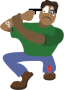
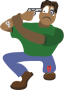
final art assets, non-rotating shoot-self sprite at adam's request

Changed region(s): [[0.4062, 0.0889, 0.6875, 0.1778]]

diff --git a/molyjam/molyjam/Game1.cs b/molyjam/molyjam/Game1.cs
@@ -42,6 +42,7 @@ namespace molyjam
         Texture2D player_tex;
         Texture2D player_shot_once;
         Texture2D player_shot_twice;
+        Texture2D player_pointing;
         Texture2D bullet_tex;
         Texture2D gameover_tex;
         Texture2D gameover_suicide_tex;
@@ -100,6 +101,7 @@ namespace molyjam
             player_tex = Content.Load<Texture2D>("Suicide");
             player_shot_once = Content.Load<Texture2D>("ShotOnce");
             player_shot_twice = Content.Load<Texture2D>("ShotTwice");
+            player_pointing = Content.Load<Texture2D>("pointing");
             civ_tex1 = Content.Load<Texture2D>("civ1-32");
             civ_tex1_aimed = Content.Load<Texture2D>("civ1-32-aimed");
             bullet_tex = Content.Load<Texture2D>("bullet");
@@ -180,6 +182,7 @@ namespace molyjam
             civ_tex1.Dispose();
             civ_tex1_aimed.Dispose();
             player_tex.Dispose();
+            player_pointing.Dispose();
             bullet_tex.Dispose();
             gameover_tex.Dispose();
             gameover_suicide_tex.Dispose();
@@ -401,16 +404,31 @@ namespace molyjam
                         civTexToUse = civ_tex1_aimed;
                     if (c is Player)
                     {
-                        if (((Player)c).Health == 3)
+                        if (!((Player)c).Target.Equals(c))
+                        {
+                            civTexToUse = player_pointing;
+                            
+                        }
+                        else if (((Player)c).Health == 3)
+                        {
                             civTexToUse = player_tex;
+                            rotationAngle = 0;
+                        }
                         else if (((Player)c).Health == 2)
+                        {
                             civTexToUse = player_shot_once;
+                            rotationAngle = 0;
+                        }
                         else if (((Player)c).Health < 2)
+                        {
                             civTexToUse = player_shot_twice;
+                            rotationAngle = 0;
+                        }
                     }
                     Rectangle destRect = c.getDrawArea();
                     destRect.X += c.Texture.Width / 2;
                     destRect.Y += c.Texture.Height / 2;
+
                     spriteBatch.Draw(civTexToUse, destRect, null, Color.White, (float)rotationAngle, new Vector2(c.Heading.X + 0.5f * civTexToUse.Width, c.Heading.Y + 0.5f * civTexToUse.Height), SpriteEffects.None, 0);
                 }
 
